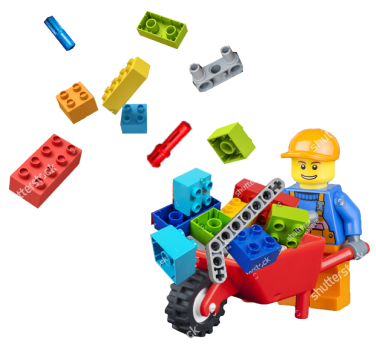
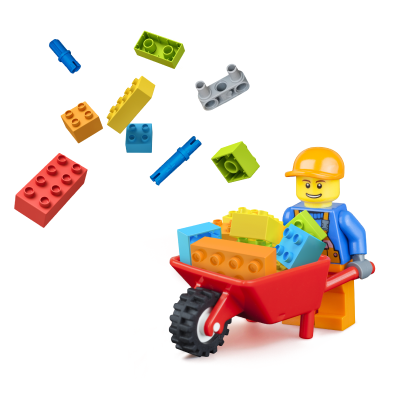
Правки по фоткам и отступам.

diff --git a/css/style.css b/css/style.css
@@ -147,7 +147,7 @@ img
     width: 910px;
     top: 49px;
     left: 50%;
-    transform: translateX(-8.7%);
+    transform: translateX(-7.4%);
     z-index: -1;
 }
 
@@ -165,9 +165,9 @@ img
 {
     position: absolute;
     width: 1086px;
-    top: -12px;
+    top: -2px;
     left: 50%;
-    transform: translateX(-16%);
+    transform: translateX(-15%);
     z-index: -1;
 }
 
@@ -185,7 +185,7 @@ img
 {
     font-size: 16px;
     line-height: 20px;
-    margin-top: 6px;
+    margin-top: 7px;
 }
 
 .photo_caption.application_caption
@@ -219,7 +219,7 @@ img
 /* Main info */
 .main_info_section
 {
-    margin-top: -27px;
+    margin-top: -21px;
     margin-bottom: 94px;
 }
 
@@ -246,6 +246,7 @@ img
 {
     width: 160px;
     flex-shrink: 0;
+    margin-top: -7px;
 }
 
 .notice_15_minutes .fifteen_minutes
@@ -274,7 +275,7 @@ img
 /* Different shifts */
 .shifts_section
 {
-    padding-bottom: 44px;
+    padding-bottom: 55px;
 }
 
 .different_shifts
@@ -294,7 +295,7 @@ img
 {
     width: 340px;
     margin-right: 20px;
-    padding-top: 70px;
+    padding-top: 65px;
 }
 
 .details_with_photo .photo_wrapper
@@ -323,7 +324,7 @@ img
 .details_with_photo.dancing .details_wrapper
 {
     margin-right: 0;
-    padding-top: 91px;
+    padding-top: 88px;
 }
 
 .details_with_photo.dancing .photo_wrapper
@@ -335,13 +336,13 @@ img
 .friendship_section
 {
     padding-top: 137px;
-    margin-top: -160px;
-    margin-bottom: 46px;
+    margin-top: -170px;
+    margin-bottom: 31px;
 }
 
 .friendship_section .details_wrapper
 {
-    width: 375px;
+    width: 380px;
 }
 
 /* Comfort */
@@ -451,6 +452,11 @@ img
     width: 298px;
 }
 
+.sticker_wrapper img
+{
+    max-width: none;
+}
+
 /* Adventures */
 .adventures_section
 {
@@ -482,10 +488,10 @@ img
 
 .adventures_section .notice_image
 {
-    margin-top: -21px;
+    margin-top: -32px;
     max-width: none;
-    margin-left: -2px;
-    margin-bottom: 39px;
+    margin-left: -17px;
+    margin-bottom: -3px;
 }
 
 .adventures_section .notice_title
@@ -557,8 +563,8 @@ img
     position: absolute;
     width: 593px;
     height: 438px;
-    bottom: -72px;
-    left: -218px;
+    bottom: -70px;
+    left: -203px;
     background: url('../images/splash.png') no-repeat;
 }
 
@@ -593,7 +599,8 @@ img
 
 .music_section .cartoons img
 {
-    margin: 21px 0 26px -8px;
+    margin: -10px 0 -11px -56px;
+    max-width: none;
 }
 
 .music_section .cartoons .photo_caption
@@ -611,10 +618,10 @@ img
 .lego
 {
     position: absolute;
-    width: 376px;
-    height: 346px;
-    bottom: -30px;
-    right: -169px;
+    width: 398px;
+    height: 409px;
+    bottom: -87px;
+    right: -186px;
     background: url('../images/lego.png') no-repeat;
 }
 
@@ -1089,15 +1096,14 @@ img
 .form_image
 {
     position: absolute;
-    top: -94px;
-    right: -40px;
+    top: -109px;
+    right: -87px;
 }
 
 /* Footer */
 .footer_section
 {
     display: flex;
-    justify-content: space-between;
     padding: 19px 20px 50px;
 }
 
@@ -1109,8 +1115,7 @@ img
 
 .developers
 {
-    flex-grow: 1;
-    width: 284px;
+    width: 299px;
     margin-right: 20px;
 }
 
@@ -1152,6 +1157,13 @@ img
     color: #0072DB;
 }
 
+.vk_link
+{
+    display: inline-block;
+    position: relative;
+    z-index: 1;
+}
+
 /* Absolute images */
 .shifted_image_block
 {
@@ -1163,13 +1175,13 @@ img
     width: 156px;
     position: absolute;
     transform: rotate(-19deg);
-    top: 127px;
-    left: 203px;
+    top: 140px;
+    left: 201px;
 }
 
 .belt_image
 {
-    margin-top: 29px;
+    margin-top: 47px;
     margin-left: -53px;
 }
 
@@ -1178,13 +1190,13 @@ img
     width: 165px;
     transform: rotate(-19deg);
     position: absolute;
-    top: 136px;
+    top: 172px;
     left: 33px;
 }
 
 .dress_image
 {
-    margin-top: -87px;
+    margin-top: -51px;
     margin-left: 127px;
     max-width: none;
 }
@@ -1194,96 +1206,13 @@ img
     width: 146px;
     transform: rotate(-19deg);
     position: absolute;
-    top: 62px;
+    top: 93px;
     left: 75px;
 }
 
 .national_belt_image
 {
-    margin-top: -62px;
+    margin-top: -30px;
     margin-left: -98px;
     max-width: none;
-}
-
-@media screen and (min-width: 1200px)
-{
-    .main_info_section
-    {
-        margin-top: -61px;
-    }
-
-    .main_info_section.content_wrapper
-    {
-        max-width: 1196px;
-    }
-
-    .main_info_section .content_title
-    {
-        font-size: 48px;
-        margin-bottom: 33px;
-    }
-
-    .main_info_section .content_text
-    {
-        font-size: 26px;
-        line-height: 33px;
-        margin-bottom: 33px;
-    }
-
-    .main_info_section .text_part
-    {
-        max-width: 854px;
-    }
-
-    .notice_15_minutes
-    {
-        width: 230px;
-    }
-
-    .notice_15_minutes img
-    {
-        margin-top: -13px;
-    }
-
-    .notice_15_minutes .minutes_text
-    {
-        font-size: 24px;
-        line-height: 29px;
-    }
-
-    .notice_15_minutes .trip_details_text
-    {
-        font-size: 23px;
-        line-height: 29px;
-    }
-
-    .top_block_video
-    {
-        margin-top: 37px;
-    }
-
-    .main_info_section .video_wrapper
-    {
-        width: 1156px;
-        height: 650px;
-    }
-
-    .main_info_section .video_caption
-    {
-        font-size: 23px;
-        line-height: 29px;
-        margin-top: 10px;
-    }
-
-    .main_info_section .play_button
-    {
-        width: 192px;
-        height: 192px;
-        background: url(../images/play-button-wide.svg);
-    }
-
-    .main_info_section .video_duration
-    {
-        font-size: 28px;
-    }
 }

diff --git a/index.html b/index.html
@@ -79,9 +79,8 @@
         занятия рассчитаны на детей с разным
         уровнем подготовки.
       </p>
-      <h4 class="new_skills_title">Чему ребёнок научится</h4>
       <p class="content_text">
-        Боевым искусствам, стрельбе
+        <span class="new_skills_title">Ребёнок научится</span> боевым искусствам, стрельбе
         <span class="indivisible_text">из пейнтбольного</span> оружия, игре
         <span class="indivisible_text">в волейбол,</span> футбол и баскетбол,
         плаванию, гимнастике.
@@ -131,9 +130,8 @@
         <span class="indivisible_text">от марийской</span> хороводной до hip-hop,
         <span class="indivisible_text">jazz-funk,</span> house.
       </p>
-      <h4 class="new_skills_title">Чему ребёнок научится</h4>
       <p class="content_text">
-        Ритмопластике, основам народно-
+        <span class="new_skills_title">Ребёнок научится</span> ритмопластике, основам народно-
         сценического танца, эстрадным
         танцам, игротанцам.
       </p>
@@ -166,9 +164,8 @@
         народного творчества, изучают фольклор,
         проводят ярмарки.
       </p>
-      <h4 class="new_skills_title">Чему ребёнок научится</h4>
       <p class="content_text">
-        Шить народные костюмы, плести кукол, рисовать, танцевать народные танцы, петь народные песни.
+        <span class="new_skills_title">Ребёнок научится</span> шить народные костюмы, плести кукол, рисовать, танцевать народные танцы, петь народные песни.
       </p>
       <div class="shifted_image_block">
         <img src="images/national_belt.png" alt="" class="national_belt_image">
@@ -258,7 +255,7 @@
       </p>
     </div>
     <div class="notice">
-      <img src="images/paper-bird.jpg" alt="Оригами" class="notice_image">
+      <img src="images/origami.png" alt="Оригами" class="notice_image">
       <p class="notice_description">
         <span class="notice_title">Рукоделие</span>
         Дети собирают оригами, занимаются бисероплетением, плетут из ниток, делают поделки из фетра
@@ -412,7 +409,7 @@
     <h4 class="map_details_name">Как добраться</h4>
     <div class="by_car">
       <h5 class="map_details_title">На машине</h5>
-      <p class="map_details_subtitle">17 минут от Дворца творчества детей <span
+      <p class="map_details_subtitle">15 минут от Дворца творчества детей <span
           class="indivisible_text">и молодёжи</span></p>
     </div>
     <div class="by_bus">
@@ -603,7 +600,7 @@
     </a>
   </div>
   <div class="socials">
-    <a href="#"><img src="images/icon-vk.png" alt=""></a>
+    <a href="#" class="vk_link"><img src="images/icon-vk.png" alt=""></a>
   </div>
 </div>
 

diff --git a/js/body-end.js b/js/body-end.js
@@ -14,7 +14,7 @@ const CLASS_VIDEO_FRAME = 'video_frame';
 const VIDEOS = [
     {
         sectionClassName: 'main_info_section',
-        poster: 'images/video/sport-wide.jpg'
+        poster: 'images/video/sport.jpg'
     },
     {
         sectionClassName: 'dancing_section',
